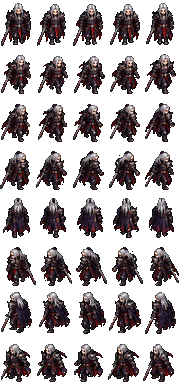
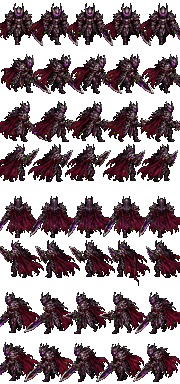
Морвен: новый скин и портрет, нарисованные кадры атаки и поза умения
Claude-Session: https://claude.ai/code/session_01AmWdLgRH5KkZouVun3YtrH

diff --git a/public/js/herofx.js b/public/js/herofx.js
@@ -169,7 +169,7 @@ window.HeroFx = (() => {
     morvenKnight(sc, a, x, y, f) {
       a.combo = ((a.combo || 0) + 1) % 2;
       const ang = Math.atan2(y - a.c.y, x - a.c.x), dist = Math.hypot(x - a.c.x, y - a.c.y);
-      lunge(sc, a, x - a.c.x, y - a.c.y, 11, 90);
+      if (!heroAnim(sc, a, x, y)) lunge(sc, a, x - a.c.x, y - a.c.y, 11, 90); // нарисованные кадры взмаха, иначе рывок
       slash(sc, a.c.x, a.c.y - 10, ang, { r: Math.max(32, Math.min(50, dist * 0.9)), w: 9, sweep: 2.9, col: 0x2a0a1a, edge: 0xff3a4a, glow: 0x9b1a3a, flip: a.combo === 1, dur: 260 });
       sparks(sc, x, y - 6, [0xff3a4a, 0x9b4dff, 0x3a0a2a], 10, { max: 180, life: 420, gravity: -120 });
       flash(sc, x, y - 6, 16, 0xff3a4a, 200, 0.5);
@@ -351,7 +351,7 @@ window.HeroFx = (() => {
     // ---- Морвен ----
     gloomStrike(sc, f) {
       const c = casterOf(sc, f);
-      if (c) { face(c, f.x, f.y); lunge(sc, c, f.x - c.c.x, f.y - c.c.y, 16, 110); afterimage(sc, c, 0x9b1a3a, 0.6, 320); }
+      if (c) { face(c, f.x, f.y); if (!heroAnim(sc, c, f.x, f.y)) lunge(sc, c, f.x - c.c.x, f.y - c.c.y, 16, 110); afterimage(sc, c, 0x9b1a3a, 0.6, 320); }
       // Крест из двух тёмных серпов прямо по цели
       slash(sc, f.x, f.y - 8, -0.6, { r: 40, w: 10, sweep: 2.4, col: 0x1a0612, edge: 0xff3a4a, glow: 0x7a1a4a, dur: 240, flat: 0.8 });
       sc.time.delayedCall(90, () => slash(sc, f.x, f.y - 8, Math.PI + 0.6, { r: 40, w: 10, sweep: 2.4, col: 0x1a0612, edge: 0xb04aff, glow: 0x5a1a8a, dur: 240, flat: 0.8, flip: true }));
@@ -380,6 +380,7 @@ window.HeroFx = (() => {
     },
     darkBurst(sc, f) {
       const c = casterOf(sc, f);
+      heroAnim(sc, c, undefined, undefined, true); // поза умения, если нарисована
       const R = f.r || 130, k = Math.min(1, ((f.power || 1) - 1) / 4); // 0 — пусто, 1 — полный мрак
       if (c) afterimage(sc, c, 0x9b4dff, 0.7, 400);
       // Сбор тьмы к герою
@@ -416,6 +417,7 @@ window.HeroFx = (() => {
       return true;
     },
     darkSeal(sc, f) {
+      heroAnim(sc, casterOf(sc, f), f.x, f.y);
       const { g, plane } = groundSign(sc, f.x, f.y + 4, 831);
       drawSeal(g, 30, 0xb04aff);
       g.setScale(2.4); plane.setAlpha(0);

diff --git a/public/js/skins.js b/public/js/skins.js
@@ -181,7 +181,11 @@ window.Skins = (() => {
       // bolt — огненный шар; дыхание четырёх аспектов; dragonDive — удар с неба; takeFlight — крылья; beastMight — кольцо силы
       fx: { sheet: 'assets/heroes/zefira_fx.png', size: 72, frames: 6, rows: ['bolt', 'hit', 'breath_fire', 'breath_ice', 'breath_poison', 'breath_lightning', 'dragonDive', 'takeFlight', 'beastMight'] },
     },
-    morvenKnight: { sheet: 'assets/heroes/morvenKnight_sheet.png', portrait: 'assets/heroes/morvenKnight_portrait.png', w: 36, h: 48, frames: 5 },
+    morvenKnight: {
+      sheet: 'assets/heroes/morvenKnight_sheet.png', portrait: 'assets/heroes/morvenKnight_portrait.png', w: 36, h: 48, frames: 5,
+      // Атака: 6 рядов — вниз, вниз-вправо, вправо, вверх-вправо, вверх (= вверх-вправо) и поза умения; эффектов пока нет
+      attack: { sheet: 'assets/heroes/morvenKnight_attack.png', w: 72, h: 60, frames: 5, rows: 6, cast: 5 },
+    },
   };
   // Нарисованные монстры: лист кадров в ряд (монстр смотрит вправо), какие кадры — ходьба, какие — удар
   const MOBS = {};

diff --git a/tools/cut_skin.py b/tools/cut_skin.py
@@ -44,12 +44,22 @@ rgba = np.dstack([im.astype(np.uint8), alpha])
 fg = ~bg; fgL = fg.copy(); fgL[:, split:] = False
 lab2, n = ndimage.label(ndimage.binary_dilation(fgL, iterations=3))
 objs = [(s, i + 1) for i, s in enumerate(ndimage.find_objects(lab2)) if (s[0].stop - s[0].start) * (s[1].stop - s[1].start) > 1500]
-objs.sort(key=lambda o: o[0][0].start)
+# ряды — по низу кадра (ноги стоят на одной линии; верх бывает выше из-за рогов и клинков)
+objs.sort(key=lambda o: o[0][0].stop)
 rows = []
 for o in objs:
-  if rows and abs(rows[-1][0][0][0].start - o[0][0].start) < 40: rows[-1].append(o)
+  if rows and abs(rows[-1][0][0][0].stop - o[0][0].stop) < 40: rows[-1].append(o)
   else: rows.append([o])
 rows = [sorted(r, key=lambda o: o[0][1].start) for r in rows]
+# лишний кусок в ряду (оторвавшийся клинок) — к соседнему кадру, с которым он ближе всего по x
+for r in rows:
+  while len(r) > 5:
+    sm = min(r, key=lambda o: (o[0][0].stop - o[0][0].start) * (o[0][1].stop - o[0][1].start))
+    r.remove(sm)
+    cx = (sm[0][1].start + sm[0][1].stop) / 2
+    j = min(range(len(r)), key=lambda k: min(abs(r[k][0][1].start - cx), abs(r[k][0][1].stop - cx)))
+    h = r[j]; lab2[lab2 == sm[1]] = h[1]
+    r[j] = ((slice(min(sm[0][0].start, h[0][0].start), max(sm[0][0].stop, h[0][0].stop)), slice(min(sm[0][1].start, h[0][1].start), max(sm[0][1].stop, h[0][1].stop))), h[1])
 print('rows', [len(r) for r in rows])
 assert len(rows) in (6, 7) and all(len(r) == 5 for r in rows)
 S = 0.32; CW, CH = 36, 48

diff --git a/README.md b/README.md
@@ -304,7 +304,7 @@ docker run -p 3000:3000 --env-file .env -v $(pwd)/data:/app/data tg-mmorpg
 
 Картинку от ИИ-генератора (сетка 7×5 и портрет) режет `tools/cut_skin.py`: он убирает нарисованную «шахматку», выравнивает кадры по ногам и добавляет недостающее направление зеркалом. Затем героя нужно вписать в `public/js/skins.js`. Герои без записи там остаются процедурными.
 
-Кадры атаки и эффекты режет `tools/cut_fx.py`: из одной картинки (слева герой 6 рядов × 5 кадров — атака вниз, вниз-вправо, вправо, вверх-вправо, вверх и поза умения; справа эффекты по 6 кадров в ряду) получаются `<id>_attack.png` и `<id>_fx.png`. В `skins.js` у героя добавляются поля `attack` и `fx` (имена рядов эффектов), а `public/js/herofx.js` проигрывает их на ударах и умениях. Сейчас нарисованы Бохай, Вебранд, Вайалд, Аламариэль, Урсус, Найри, Малакор, Кельт’о, Брендан, Кира, Кассиан, Зу’кра, Нимуэ, Талиесин, Аурелиус, Валериан, Юстина, Джакомо, Орион, Фаэлин, Илирия, Тибор, Ингрид, Талмира, Сангвейн, Зефира и Морвен; у всех, кроме Морвена, есть кадры атаки и эффекты. У героев дальнего боя ряд `bolt` — летящий снаряд обычной атаки (`HeroFx.shoot`).
+Кадры атаки и эффекты режет `tools/cut_fx.py`: из одной картинки (слева герой 6 рядов × 5 кадров — атака вниз, вниз-вправо, вправо, вверх-вправо, вверх и поза умения; справа эффекты по 6 кадров в ряду) получаются `<id>_attack.png` и `<id>_fx.png`. В `skins.js` у героя добавляются поля `attack` и `fx` (имена рядов эффектов), а `public/js/herofx.js` проигрывает их на ударах и умениях. Сейчас нарисованы Бохай, Вебранд, Вайалд, Аламариэль, Урсус, Найри, Малакор, Кельт’о, Брендан, Кира, Кассиан, Зу’кра, Нимуэ, Талиесин, Аурелиус, Валериан, Юстина, Джакомо, Орион, Фаэлин, Илирия, Тибор, Ингрид, Талмира, Сангвейн, Зефира и Морвен; у всех есть кадры атаки, у всех, кроме Морвена, — свои эффекты. У героев дальнего боя ряд `bolt` — летящий снаряд обычной атаки (`HeroFx.shoot`).
 
 ## Нарисованная графика миров
 
